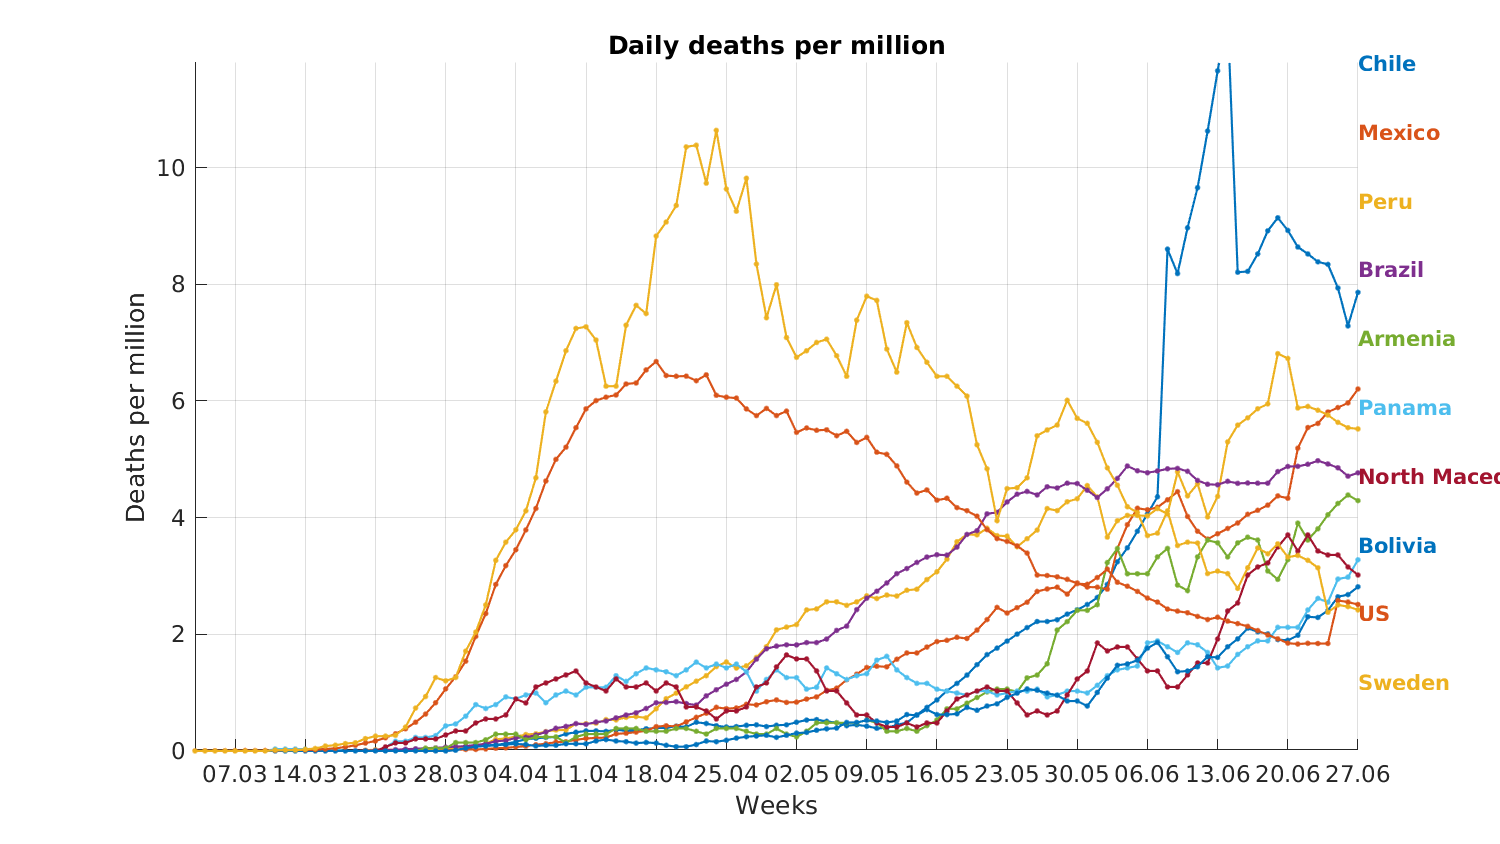
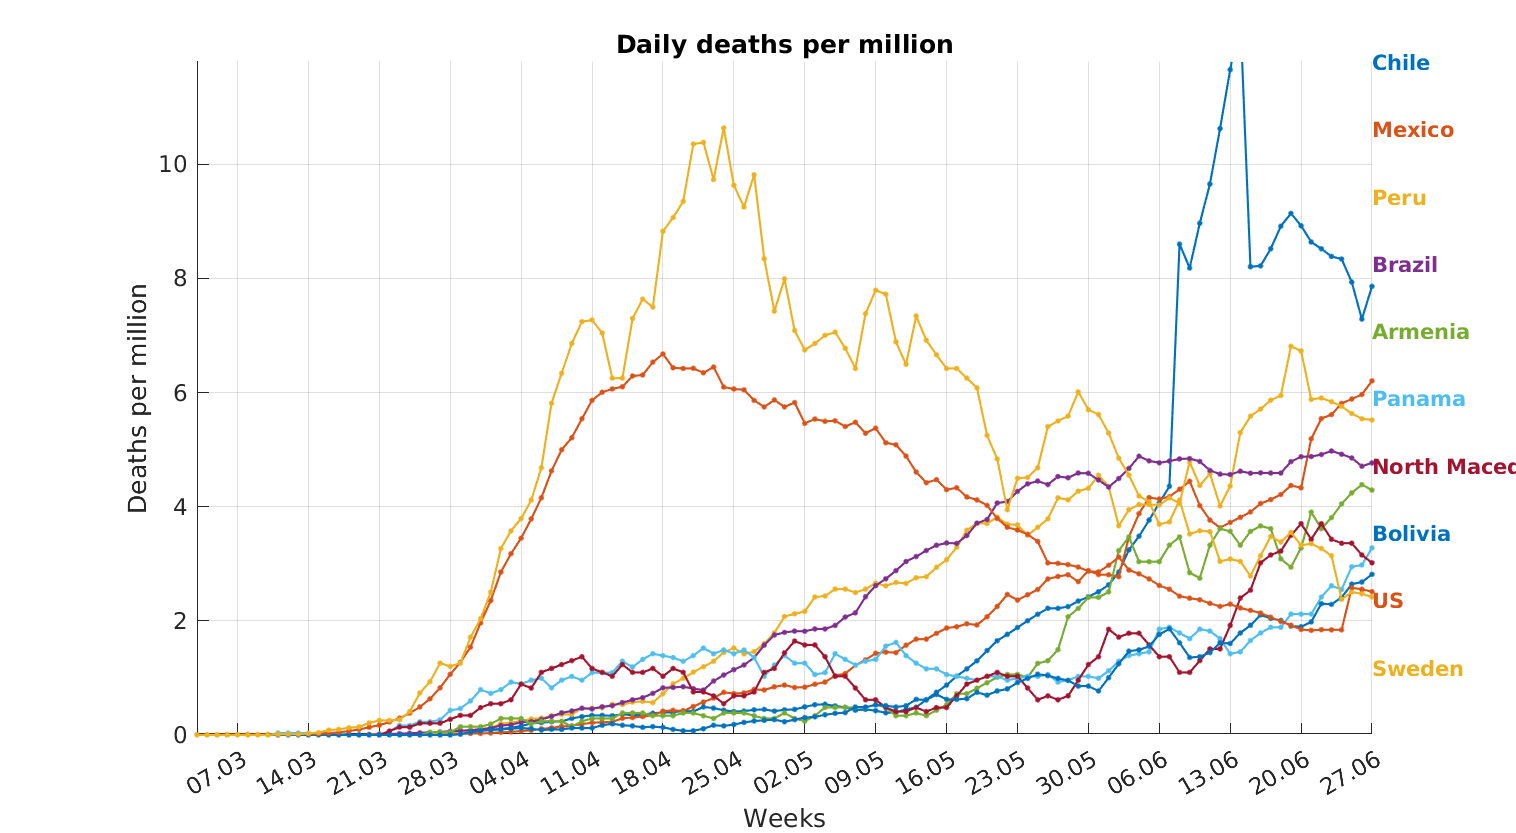
xtickangles

diff --git a/code/covid_news.m b/code/covid_news.m
@@ -103,6 +103,7 @@ for iPlot = 1:4
     end
     ylim([0 ymax])
     ytickformat('%,d')
+    xtickangle(30)
     [~,yOrd] = sort(y(end,:,iPlot),'descend');
     for iAnn = 1:nCountries
         x = size(deaths,1);
@@ -127,6 +128,7 @@ ymax = max(y(end,:,iPlot))*1.5;
 ylabel('Deaths per million')
 ylim([0 ymax])
 ytickformat('%,d')
+xtickangle(30)
 yt = fliplr(ymax/nCountries:ymax/nCountries:ymax);
 [~,yOrd] = sort(y(end,:,iPlot),'descend');
 for iAnn = 1:nCountries
